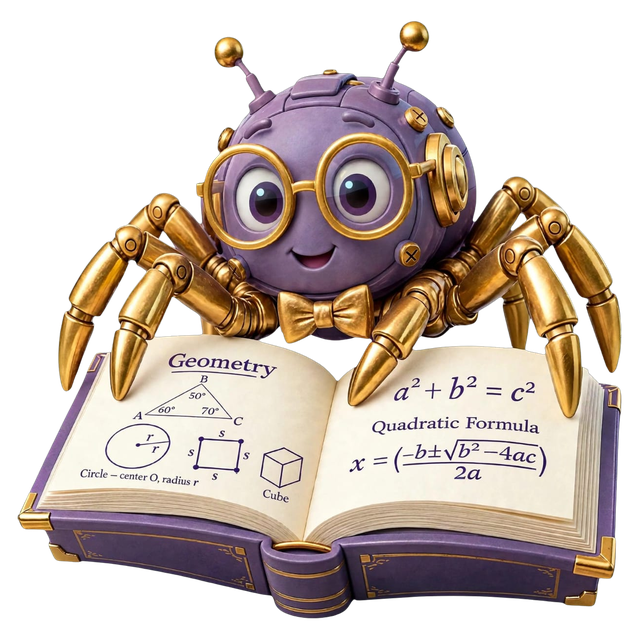
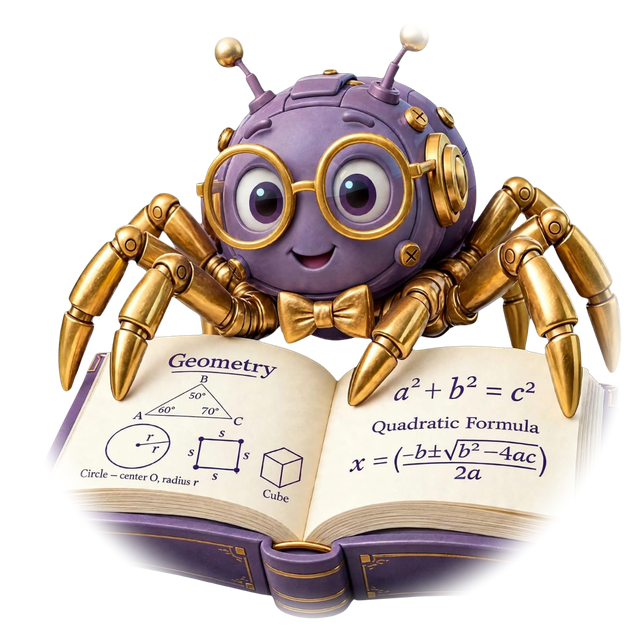
fix(landing-hero): remove harsh square edges on mascot with smooth radial gradient blend

Changed region(s): [[0.0312, 0.375, 0.9688, 0.9688], [0.625, 0.0312, 0.6875, 0.0938], [0.3125, 0.0312, 0.375, 0.0938]]

diff --git a/src/app/features/guest-portal/landing-home/landing-home.component.html b/src/app/features/guest-portal/landing-home/landing-home.component.html
@@ -112,8 +112,8 @@
           </div>
 
           <div class="relative w-full max-w-md lg:max-w-lg flex flex-col items-center">
-            <!-- 3D Mascot Image with Book (Transparent WebP with Gentle Float) -->
-            <div class="relative z-10 w-full flex items-center justify-center pt-6">
+            <!-- 3D Mascot Image with Book (Transparent WebP with Gentle Float & Smooth Radial Blend) -->
+            <div class="mascot-blend-wrapper relative z-10 w-full flex items-center justify-center pt-6">
               <img
                 [attr.srcset]="langService.isArabic() ? '/assets/branding/spider-mascot-hero-book-ar-sm-v3.webp?v=12 480w, /assets/branding/spider-mascot-hero-book-ar-v3.webp?v=12 640w' : '/assets/branding/spider-mascot-hero-book-sm-v3.webp?v=12 480w, /assets/branding/spider-mascot-hero-book-v3.webp?v=12 640w'"
                 sizes="(max-width: 640px) 360px, (max-width: 1023px) 440px, 500px"
@@ -123,7 +123,7 @@
                 height="640"
                 fetchpriority="high"
                 decoding="sync"
-                class="w-full max-w-[360px] sm:max-w-[440px] lg:max-w-[500px] aspect-square h-auto object-contain drop-shadow-[0_14px_24px_rgba(0,0,0,0.42)] animate-mascot-float"
+                class="mascot-blend-img w-full max-w-[360px] sm:max-w-[440px] lg:max-w-[500px] aspect-square h-auto object-contain drop-shadow-[0_14px_24px_rgba(0,0,0,0.42)] animate-mascot-float"
               />
             </div>
           </div>

diff --git a/src/app/features/guest-portal/landing-home/landing-home.component.scss b/src/app/features/guest-portal/landing-home/landing-home.component.scss
@@ -483,6 +483,42 @@ $axis-blue: #0284C7;
   backface-visibility: hidden;
 }
 
+// Mascot Smooth Radial Gradient Blend & Borderless Soft Vignette
+// Completely eliminates rectangular edge artifacts and seamlessly blends the 3D mascot into the dark canvas
+.mascot-blend-wrapper {
+  -webkit-mask-image: radial-gradient(
+    ellipse 85% 82% at 50% 50%,
+    #000 62%,
+    rgba(0, 0, 0, 0.94) 74%,
+    rgba(0, 0, 0, 0.45) 88%,
+    transparent 100%
+  );
+  mask-image: radial-gradient(
+    ellipse 85% 82% at 50% 50%,
+    #000 62%,
+    rgba(0, 0, 0, 0.94) 74%,
+    rgba(0, 0, 0, 0.45) 88%,
+    transparent 100%
+  );
+}
+
+.mascot-blend-img {
+  -webkit-mask-image: radial-gradient(
+    ellipse 86% 84% at 50% 50%,
+    #000 65%,
+    rgba(0, 0, 0, 0.95) 76%,
+    rgba(0, 0, 0, 0.5) 90%,
+    transparent 100%
+  );
+  mask-image: radial-gradient(
+    ellipse 86% 84% at 50% 50%,
+    #000 65%,
+    rgba(0, 0, 0, 0.95) 76%,
+    rgba(0, 0, 0, 0.5) 90%,
+    transparent 100%
+  );
+}
+
 // Below-the-fold layout/style isolation for fast initial Hero LCP layout
 .landing-below-fold-section {
   contain: layout style;
